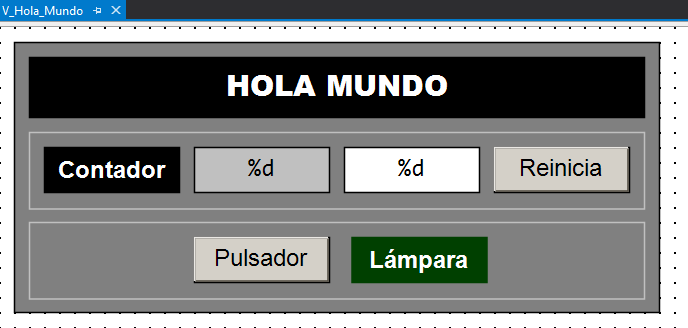
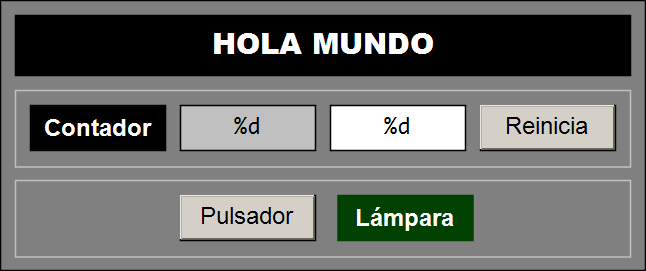
docs(hola-mundo): revisar contenido
Recortar la imagen V_Hola_Mundo.png

diff --git a/docs/contenidos/02_tc3_hola_mundo.md b/docs/contenidos/02_tc3_hola_mundo.md
@@ -2,19 +2,20 @@
 
 ## 📝 Descripción del Proyecto
 
-Este proyecto es el **Hola Mundo** para **autómatas programables (PLC)**. 
+Este proyecto es el **Hola Mundo** de la programación de **autómatas programables (PLC)**. 
 
-Hola Mundo está escrito en el lenguaje **Texto Estructurado (ST)** de la norma IEC 61131-3 con TwinCAT 3.
+El proyecto **Hola Mundo** se ha desarrollado en el entorno **TwinCAT 3** empleando el lenguaje **Texto Estructurado (ST)** conforme a la norma **IEC 61131-3**.
 
 Hola Mundo es un proyecto mínimo y funcional, que muestra la declaración y el uso básico de variables booleanas y enteras, ubicadas en los espacios de memoria de marcas, imagen de entrada e imagen de salida. Cubriendo los elementos esenciales de programación del lenguaje ST de la norma **IEC 61131-3** para la programación de PLC.
 
-![Imagen](../images/02_tc3_hola_mundo/V_Hola_Mundo.png){width=430px}
+![V_Hola_Mundo](../images/02_tc3_hola_mundo/V_Hola_Mundo.png)
+<figcaption>Figura 1: Visualización del proyecto Hola Mundo.</figcaption>
 
-Este proyecto incluye además, una **visualización** elemental que permite, mediante objetos gráficos, interactuar con las variables del proyecto. **Formas rectangulares** para mostrar el valor de variables booleanas y numéricas y **botones** para modificar el valor de variables booleanas y numéricas.
+Este proyecto incluye además, una **visualización** elemental que permite, mediante objetos gráficos, interactuar con las variables del proyecto. Utilizando **formas rectangulares**, para mostrar el valor de variables booleanas y numéricas, y **botones**, para modificar el valor de variables booleanas y numéricas.
 
 ---
 
-## Estructura (simplificada) del Proyecto PLC (POUs):
+## Estructura (simplificada) del Proyecto:
 
 ```text
 TC3_Hola_Mundo/
@@ -24,7 +25,7 @@ TC3_Hola_Mundo/
         ├── POUs/
         │   └── MAIN.TcPOU         <-- Programa principal (Código ST)
         └── VISUs/
-            └── V_Hola_Mundo.TcVISU <-- Interfaz gráfica (Visualización)
+            └── V_Hola_Mundo.TcVISU <-- Visualización (Interfaz gráfica)
 ```
 
 --- 
@@ -38,7 +39,7 @@ TC3_Hola_Mundo/
     VAR
         ContadorCiclos: UINT;
         i_Pulsador AT %I*: BOOL;
-        o_Lampara  AT %Q*: BOOL;
+        o_Lampara AT %Q*: BOOL;
     END_VAR
     ```
 
@@ -53,10 +54,10 @@ TC3_Hola_Mundo/
 ## Comentarios
 
 - La interfaz del programa `MAIN` (cabecera y definición de variables) se define en la **Parte de Declaración**. 
-- Los **comentarios** de una línea empiezan con `**`
-- La variable `ContadorCiclos` se declara como un entero sin signo (UINT)
-- La variable `i_Pulsador` se declara como un **booleano** (BOOL) y se sitúa en la **Imagen de Entrada** (AT %I*)
-- La variable `o_Lampara` se declara como un **booleano** (BOOL) y se sitúa en la **Imagen de Salida** (AT %Q*)
+- Los **comentarios** de una línea empiezan con `//`.
+- La variable `ContadorCiclos` se declara como un entero sin signo (`UINT`).
+- La variable `i_Pulsador` se declara como un **booleano** (`BOOL`) y se localiza dinámicamente en la **Imagen de Entrada** (`AT %I*`).
+- La variable `o_Lampara` se declara como un **booleano** (`BOOL`) y se localiza dinámicamente en la **Imagen de Salida** (`AT %Q*`).
 - La variable `ContadorCiclos` se incrementa indefinidamente una vez por **Ciclo Básico** de ejecución del PLC (10 ms).
 - El código del módulo, en lenguaje ST, se incluyue en la **Parte de Implementación**.
 - La variable de salida `o_Lampara` copia, continuamente, el valor de la variable de entrada `i_Pulsador`.
